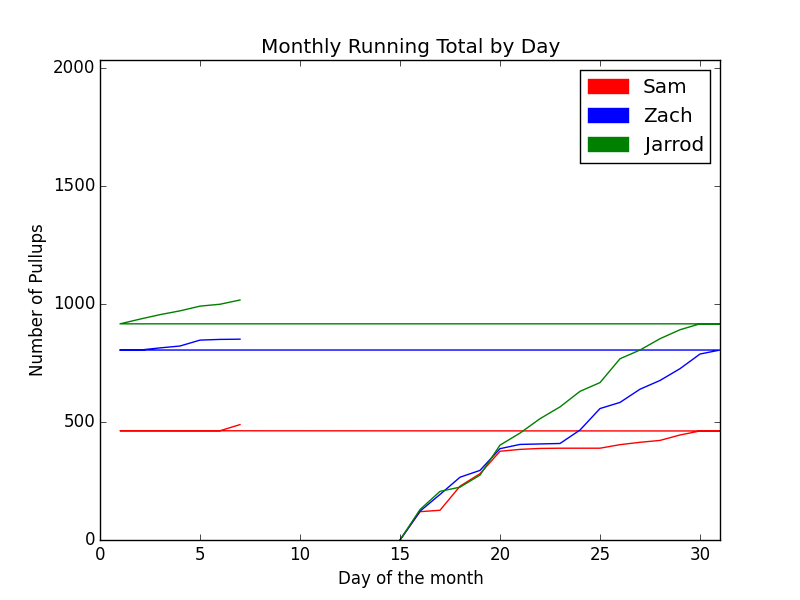
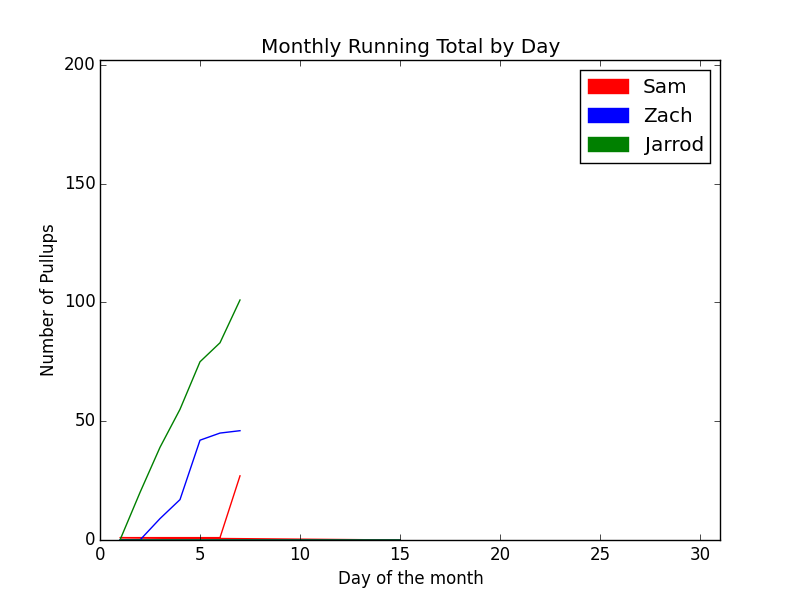
'auto'

diff --git a/freeze_test.py b/freeze_test.py
@@ -15,9 +15,9 @@ users_db = roommates_db['users']
 dtotals_db = roommates_db['daily_totals']
 
 # Make the new image and freeze json file for site to use
-sams_days = roommates_db.query("SELECT user_name, total, month_to_date, date FROM daily_totals WHERE user_name = 'Sam' ORDER BY date;")
-zachs_days = roommates_db.query("SELECT user_name, total, month_to_date, date FROM daily_totals WHERE user_name = 'Blade' ORDER BY date;")
-jarrods_days = roommates_db.query("SELECT user_name, total, month_to_date, date FROM daily_totals WHERE user_name = 'J-bod' ORDER BY date;")
+sams_days = roommates_db.query("SELECT user_name, total, month_to_date, date FROM daily_totals WHERE user_name = 'Sam' AND date::date > '2017-03-31'::date ORDER BY date;")
+zachs_days = roommates_db.query("SELECT user_name, total, month_to_date, date FROM daily_totals WHERE user_name = 'Blade' AND date::date > '2017-03-31'::date ORDER BY date;")
+jarrods_days = roommates_db.query("SELECT user_name, total, month_to_date, date FROM daily_totals WHERE user_name = 'J-bod' AND date::date > '2017-03-31'::date ORDER BY date;")
 dataset.freeze(sams_days, format='json', filename='sams_days.json')
 dataset.freeze(zachs_days, format='json', filename='zachs_days.json')
 dataset.freeze(jarrods_days, format='json', filename='jarrods_days.json')
